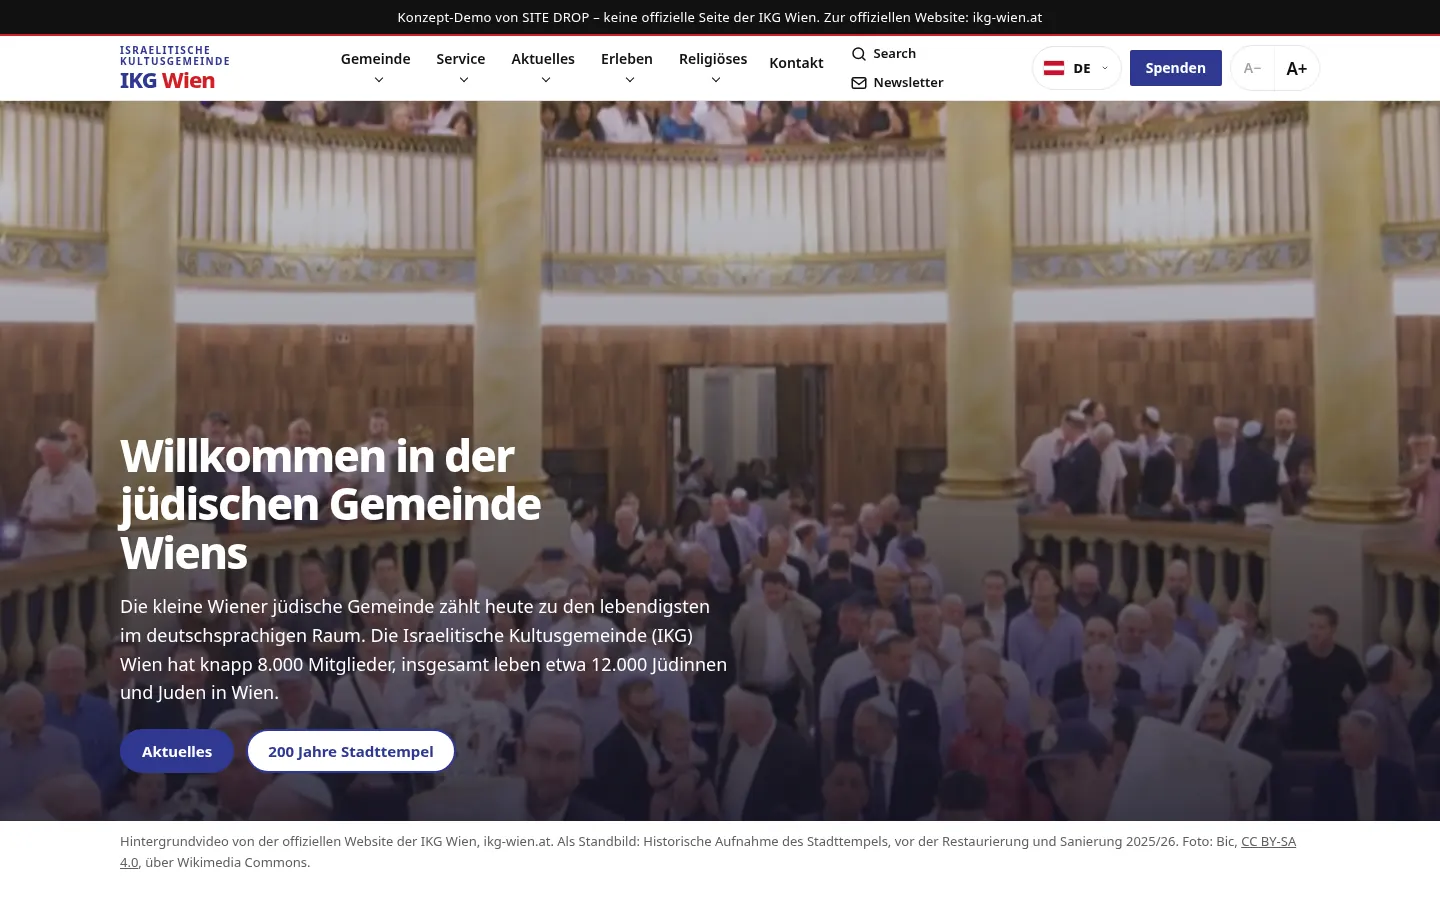
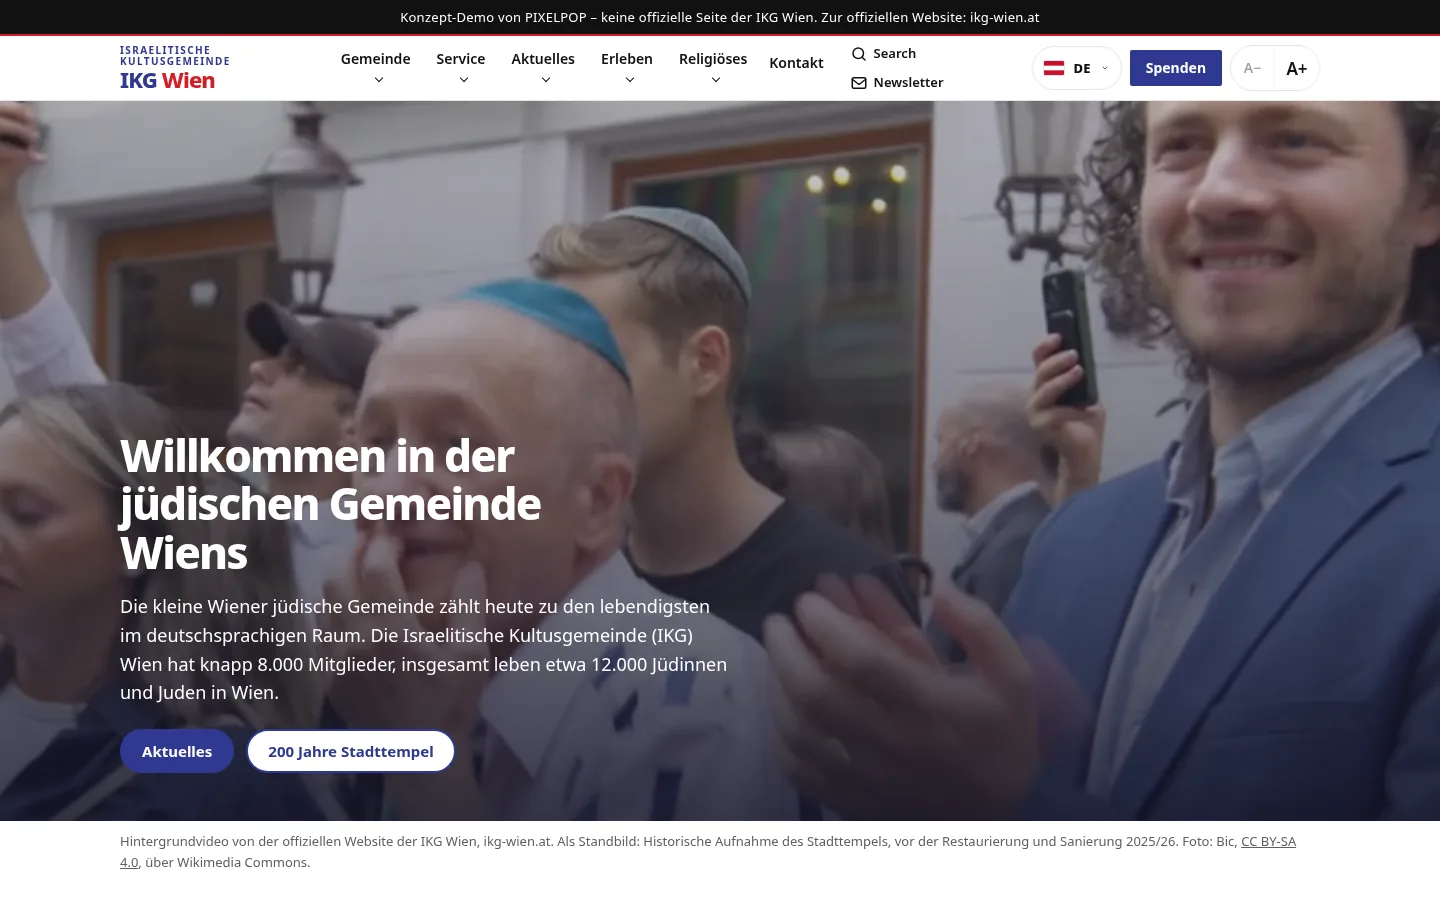
Refresh the IKG Wien portfolio entry for demo 1.9.3: new screenshots, link ?v=1.9.3, cache version 20261112-ikg193

diff --git a/index.html b/index.html
@@ -21,23 +21,23 @@
   <meta name="twitter:title" content="PIXELPOP | Websites for businesses">
   <meta name="twitter:description" content="Modern, mobile-friendly websites for businesses — new sites, redesigns and online stores.">
   <meta name="twitter:image" content="https://amireven-crypto.github.io/site-drop/assets/brand/og-image.png?v=fresh">
-  <link rel="icon" href="assets/brand/favicon.svg?ver=20261111-vibe" type="image/svg+xml">
-  <link rel="icon" href="assets/brand/favicon-32.png?ver=20261111-vibe" sizes="32x32" type="image/png">
-  <link rel="apple-touch-icon" href="assets/brand/apple-touch-icon.png?ver=20261111-vibe">
+  <link rel="icon" href="assets/brand/favicon.svg?ver=20261112-ikg193" type="image/svg+xml">
+  <link rel="icon" href="assets/brand/favicon-32.png?ver=20261112-ikg193" sizes="32x32" type="image/png">
+  <link rel="apple-touch-icon" href="assets/brand/apple-touch-icon.png?ver=20261112-ikg193">
   <link rel="preload" href="assets/fonts/inter-tight-var.woff2" as="font" type="font/woff2" crossorigin>
   <link rel="preload" href="assets/fonts/inter-var.woff2" as="font" type="font/woff2" crossorigin>
   <link rel="preload" href="assets/fonts/nunito-latin-black.woff2" as="font" type="font/woff2" crossorigin>
-  <link rel="stylesheet" href="assets/vendor/motion-anything/fade-in-up.css?ver=20261111-vibe">
-  <link rel="stylesheet" href="assets/vendor/motion-anything/scroll-reveal.css?ver=20261111-vibe">
-  <link rel="stylesheet" href="assets/vendor/motion-anything/stagger-list.css?ver=20261111-vibe">
-  <link rel="stylesheet" href="assets/vendor/motion-anything/card-lift-hover.css?ver=20261111-vibe">
-  <link rel="stylesheet" href="assets/vendor/motion-anything/bounce-cards.css?ver=20261111-vibe">
-  <link rel="stylesheet" href="assets/vendor/motion-anything/shiny-text.css?ver=20261111-vibe">
-  <link rel="stylesheet" href="assets/vendor/motion-anything/rotating-text.css?ver=20261111-vibe">
-  <link rel="stylesheet" href="assets/vendor/motion-anything/magnetic-button.css?ver=20261111-vibe">
-  <link rel="stylesheet" href="assets/vendor/motion-anything/glare-hover.css?ver=20261111-vibe">
-  <link rel="stylesheet" href="assets/vendor/motion-anything/glass-icons.css?ver=20261111-vibe">
-  <link rel="stylesheet" href="assets/css/style.css?ver=20261111-vibe">
+  <link rel="stylesheet" href="assets/vendor/motion-anything/fade-in-up.css?ver=20261112-ikg193">
+  <link rel="stylesheet" href="assets/vendor/motion-anything/scroll-reveal.css?ver=20261112-ikg193">
+  <link rel="stylesheet" href="assets/vendor/motion-anything/stagger-list.css?ver=20261112-ikg193">
+  <link rel="stylesheet" href="assets/vendor/motion-anything/card-lift-hover.css?ver=20261112-ikg193">
+  <link rel="stylesheet" href="assets/vendor/motion-anything/bounce-cards.css?ver=20261112-ikg193">
+  <link rel="stylesheet" href="assets/vendor/motion-anything/shiny-text.css?ver=20261112-ikg193">
+  <link rel="stylesheet" href="assets/vendor/motion-anything/rotating-text.css?ver=20261112-ikg193">
+  <link rel="stylesheet" href="assets/vendor/motion-anything/magnetic-button.css?ver=20261112-ikg193">
+  <link rel="stylesheet" href="assets/vendor/motion-anything/glare-hover.css?ver=20261112-ikg193">
+  <link rel="stylesheet" href="assets/vendor/motion-anything/glass-icons.css?ver=20261112-ikg193">
+  <link rel="stylesheet" href="assets/css/style.css?ver=20261112-ikg193">
 </head>
 <body>
   <a class="skip" href="#main">Skip to main content</a>
@@ -283,11 +283,11 @@
     <section class="hero chapter-dark" aria-labelledby="hero-h">
       <div class="hero-wash" aria-hidden="true"></div>
       <div class="hero-candies" aria-hidden="true">
-        <img class="float-candy fc-1" src="assets/brand/candy-pink-blue.svg?ver=20261111-vibe" width="78" height="90" alt="" decoding="async">
-        <img class="float-candy fc-2" src="assets/brand/candy-mint-pink.svg?ver=20261111-vibe" width="64" height="74" alt="" decoding="async">
-        <img class="float-candy fc-3" src="assets/brand/candy-orange-blue.svg?ver=20261111-vibe" width="70" height="80" alt="" decoding="async">
-        <img class="float-candy fc-4" src="assets/brand/candy-mint-pink.svg?ver=20261111-vibe" width="48" height="55" alt="" decoding="async">
-        <img class="float-candy fc-5" src="assets/brand/candy-pink-blue.svg?ver=20261111-vibe" width="52" height="60" alt="" decoding="async">
+        <img class="float-candy fc-1" src="assets/brand/candy-pink-blue.svg?ver=20261112-ikg193" width="78" height="90" alt="" decoding="async">
+        <img class="float-candy fc-2" src="assets/brand/candy-mint-pink.svg?ver=20261112-ikg193" width="64" height="74" alt="" decoding="async">
+        <img class="float-candy fc-3" src="assets/brand/candy-orange-blue.svg?ver=20261112-ikg193" width="70" height="80" alt="" decoding="async">
+        <img class="float-candy fc-4" src="assets/brand/candy-mint-pink.svg?ver=20261112-ikg193" width="48" height="55" alt="" decoding="async">
+        <img class="float-candy fc-5" src="assets/brand/candy-pink-blue.svg?ver=20261112-ikg193" width="52" height="60" alt="" decoding="async">
       </div>
       <div class="wrap hero-in">
         <p class="eyebrow" data-fade><span class="shiny">PIXELPOP</span> · Websites for businesses</p>
@@ -394,14 +394,14 @@
 
         <article class="proj" data-reveal>
           <div class="proj-media">
-            <a class="lift-card media-link glare" href="https://amireven-crypto.github.io/ikg-wien-preview/?v=1.9.2" target="_blank" rel="noopener">
+            <a class="lift-card media-link glare" href="https://amireven-crypto.github.io/ikg-wien-preview/?v=1.9.3" target="_blank" rel="noopener">
               <div class="win">
                 <div class="bar" aria-hidden="true"><i></i><i></i><i></i><span>amireven-crypto.github.io/ikg-wien-preview</span></div>
-                <img src="assets/work/ikg-wien-desktop.webp" alt="IKG Wien concept redesign — desktop homepage with a full-bleed hero video" width="1440" height="900" loading="lazy">
+                <img src="assets/work/ikg-wien-desktop.webp?ver=20261112-ikg193" alt="IKG Wien concept redesign — desktop homepage with a full-bleed hero video" width="1440" height="900" loading="lazy">
               </div>
               <div class="phone sm">
                 <div class="pscreen">
-                  <img src="assets/work/ikg-wien-mobile.webp" alt="IKG Wien concept redesign on a phone" width="390" height="844" loading="lazy">
+                  <img src="assets/work/ikg-wien-mobile.webp?ver=20261112-ikg193" alt="IKG Wien concept redesign on a phone" width="390" height="844" loading="lazy">
                 </div>
               </div>
             </a>
@@ -418,7 +418,7 @@
               <li>Mobile-first</li>
             </ul>
             <div class="pl">
-              <a class="btn primary sm" href="https://amireven-crypto.github.io/ikg-wien-preview/?v=1.9.2" target="_blank" rel="noopener">View live demo <span aria-hidden="true">↗</span></a>
+              <a class="btn primary sm" href="https://amireven-crypto.github.io/ikg-wien-preview/?v=1.9.3" target="_blank" rel="noopener">View live demo <span aria-hidden="true">↗</span></a>
               <a class="btn ghost sm" href="https://www.ikg-wien.at/" target="_blank" rel="noopener">Original site <span aria-hidden="true">↗</span></a>
             </div>
             <p class="note">Concept demo — not an official IKG Wien site.</p>
@@ -545,7 +545,7 @@
   <footer class="foot">
     <div class="wrap foot-in">
       <a class="logo" href="index.html" aria-label="PIXELPOP — home">
-        <img class="wordmark" src="assets/brand/pixelpop-wordmark-on-light.svg?ver=20261111-vibe" width="182" height="42" alt="PIXELPOP" decoding="async">
+        <img class="wordmark" src="assets/brand/pixelpop-wordmark-on-light.svg?ver=20261112-ikg193" width="182" height="42" alt="PIXELPOP" decoding="async">
       </a>
       <nav aria-label="Footer">
         <a href="#work">Work</a>
@@ -557,13 +557,13 @@
     </div>
   </footer>
 
-  <script src="assets/vendor/motion-anything/fade-in-up.js?ver=20261111-vibe"></script>
-  <script src="assets/vendor/motion-anything/scroll-reveal.js?ver=20261111-vibe"></script>
-  <script src="assets/vendor/motion-anything/stagger-list.js?ver=20261111-vibe"></script>
-  <script src="assets/vendor/motion-anything/bounce-cards.js?ver=20261111-vibe"></script>
-  <script src="assets/vendor/motion-anything/rotating-text.js?ver=20261111-vibe"></script>
-  <script src="assets/vendor/motion-anything/magnetic-button.js?ver=20261111-vibe"></script>
-  <script src="assets/vendor/motion-anything/glare-hover.js?ver=20261111-vibe"></script>
-  <script src="assets/js/main.js?ver=20261111-vibe"></script>
+  <script src="assets/vendor/motion-anything/fade-in-up.js?ver=20261112-ikg193"></script>
+  <script src="assets/vendor/motion-anything/scroll-reveal.js?ver=20261112-ikg193"></script>
+  <script src="assets/vendor/motion-anything/stagger-list.js?ver=20261112-ikg193"></script>
+  <script src="assets/vendor/motion-anything/bounce-cards.js?ver=20261112-ikg193"></script>
+  <script src="assets/vendor/motion-anything/rotating-text.js?ver=20261112-ikg193"></script>
+  <script src="assets/vendor/motion-anything/magnetic-button.js?ver=20261112-ikg193"></script>
+  <script src="assets/vendor/motion-anything/glare-hover.js?ver=20261112-ikg193"></script>
+  <script src="assets/js/main.js?ver=20261112-ikg193"></script>
 </body>
 </html>
